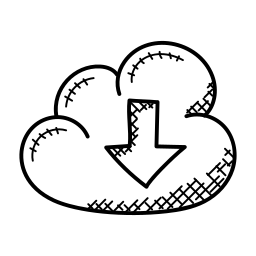
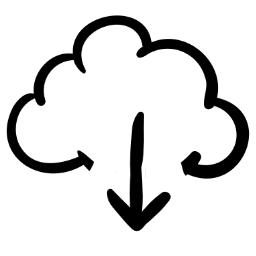
improved download image

Changed region(s): [[0.0, 0.0312, 1.0, 0.9062], [0.125, 0.7188, 0.1562, 0.75]]

diff --git a/ImagoApp/ImagoApp/Views/StartPage.xaml b/ImagoApp/ImagoApp/Views/StartPage.xaml
@@ -89,12 +89,20 @@
                         <Label FontSize="{DynamicResource FontSizeHeader}"
                                Text="{Binding FontScale}"
                                VerticalOptions="Center" />
-                        <Button Margin="5" Padding="10,-1,10,5"
-                                Command="{Binding IncreaseFontSizeCommand}"
-                                FontSize="26" Text="+" VerticalOptions="Center" />
-                        <Button Margin="5" Padding="15,-1,15,5"
-                                Command="{Binding DecreaseFontSizeCommand}"
-                                FontSize="26" Text="-" VerticalOptions="Center" />
+
+                        <customControls:ImageButtonView  VerticalOptions="Center" Margin="5,0,0,0"
+                                                         ImageSource="Images/plus.png"
+                                                         ImageMargin="8,10,6,6"
+                                                         TextHidden="True" 
+                                                         ImageSize="33" 
+                                                         Command="{Binding IncreaseFontSizeCommand}"/>
+
+                        <customControls:ImageButtonView  VerticalOptions="Center"
+                                                         ImageSource="Images/minus.png"
+                                                         ImageMargin="8,10,6,6"
+                                                         TextHidden="True" 
+                                                         ImageSize="33" 
+                                                         Command="{Binding DecreaseFontSizeCommand}"/>
                     </StackLayout>
                 </StackLayout>
             </Frame>
@@ -109,41 +117,41 @@
 
                     <StackLayout Grid.Column="0">
                         <Label FontAttributes="Bold"
-           FontSize="{DynamicResource FontSizeTitle}"
-           Text="Wiki Datenbank" VerticalOptions="Center" />
+                               FontSize="{DynamicResource FontSizeTitle}"
+                               Text="Wiki Datenbank" VerticalOptions="Center" />
 
                         <StackLayout Orientation="Horizontal">
                             <Label Margin="20,0,0,0"
-                               FontSize="{DynamicResource FontSizeHeader}"
-                               Text="Rüstungen: " />
+                                   FontSize="{DynamicResource FontSizeHeader}"
+                                   Text="Rüstungen: " />
                             <Label FontSize="{DynamicResource FontSizeHeader}" Text="{Binding DatabaseInfoViewModel.ArmorTemplateCount}" />
                         </StackLayout>
 
                         <StackLayout Orientation="Horizontal">
                             <Label Margin="20,0,0,0"
-                               FontSize="{DynamicResource FontSizeHeader}"
-                               Text="Waffen: " />
+                                   FontSize="{DynamicResource FontSizeHeader}"
+                                   Text="Waffen: " />
                             <Label FontSize="{DynamicResource FontSizeHeader}" Text="{Binding DatabaseInfoViewModel.WeaponTemplateCount}" />
                         </StackLayout>
 
                         <StackLayout Orientation="Horizontal">
                             <Label Margin="20,0,0,0"
-                               FontSize="{DynamicResource FontSizeHeader}"
-                               Text="Künste: " />
+                                   FontSize="{DynamicResource FontSizeHeader}"
+                                   Text="Künste: " />
                             <Label FontSize="{DynamicResource FontSizeHeader}" Text="{Binding DatabaseInfoViewModel.TalentTemplateCount}" />
                         </StackLayout>
 
                         <StackLayout Orientation="Horizontal">
                             <Label Margin="20,0,0,0"
-                               FontSize="{DynamicResource FontSizeHeader}"
-                               Text="Webkünste: " />
+                                   FontSize="{DynamicResource FontSizeHeader}"
+                                   Text="Webkünste: " />
                             <Label FontSize="{DynamicResource FontSizeHeader}" Text="{Binding DatabaseInfoViewModel.WeaveTalentTemplateCount}" />
                         </StackLayout>
 
                         <StackLayout Orientation="Horizontal">
                             <Label Margin="20,0,0,0"
-                               FontSize="{DynamicResource FontSizeHeader}"
-                               Text="Meisterschaften: " />
+                                   FontSize="{DynamicResource FontSizeHeader}"
+                                   Text="Meisterschaften: " />
                             <Label FontSize="{DynamicResource FontSizeHeader}" Text="{Binding DatabaseInfoViewModel.MasteryTemplateCount}" />
                         </StackLayout>
 
@@ -158,20 +166,20 @@
                             </Grid.ColumnDefinitions>
 
                             <Label Grid.Column="1" Margin="25,0"
-                               FontSize="{DynamicResource FontSizeTitle}"
-                               HorizontalOptions="EndAndExpand"
-                               Text="{Binding DatabaseInfoViewModel.WikiDatabaseInfo.Length, Converter={StaticResource FileInfoLenghtToSmartFileSizeConverter}}"
-                               VerticalOptions="Center" />
+                                   FontSize="{DynamicResource FontSizeTitle}"
+                                   HorizontalOptions="EndAndExpand"
+                                   Text="{Binding DatabaseInfoViewModel.WikiDatabaseInfo.Length, Converter={StaticResource FileInfoLenghtToSmartFileSizeConverter}}"
+                                   VerticalOptions="Center" />
                             <Label Grid.Column="2"
-                               FontSize="{DynamicResource FontSizeTitle}"
-                               HorizontalOptions="EndAndExpand"
-                               Text="{Binding DatabaseInfoViewModel.WikiDatabaseInfo.LastWriteTime, StringFormat='{0:dd.MM.yyyy HH:mm}'}"
-                               VerticalOptions="Center" />
+                                   FontSize="{DynamicResource FontSizeTitle}"
+                                   HorizontalOptions="EndAndExpand"
+                                   Text="{Binding DatabaseInfoViewModel.WikiDatabaseInfo.LastWriteTime, StringFormat='{0:dd.MM.yyyy HH:mm}'}"
+                                   VerticalOptions="Center" />
                         </Grid>
 
                         <customControls:ImageButtonView Margin="15,5"
                                                         Command="{Binding ParseWikiCommand, Source={RelativeSource AncestorType={x:Type viewModels:StartPageViewModel}}}"
-                                                        ImageSize="45" ImageMargin="4,1,-4,1"
+                                                        ImageSize="37" ImageMargin="11,9,3,7"
                                                         VerticalOptions="Center"
                                                         ImageSource="Images/download.png" 
                                                         HorizontalOptions="EndAndExpand"
@@ -249,7 +257,7 @@
                                                              TextHidden="True" 
                                                              ImageSize="33" 
                                                              Command="{Binding CreateNewCharacterCommand}"
-                            ></customControls:ImageButtonView>
+                                                             ></customControls:ImageButtonView>
 
                             <customControls:ImageButtonView TextHidden="True" ImageSize="28"  ImageMargin="10,8,8,8"
                                                             ImageSource="Images/reload.png"
@@ -279,8 +287,8 @@
 
                     <!--  char list  -->
                     <ListView Grid.Row="1" SelectedItem="{Binding SelectedCharacter, Mode=TwoWay}"
-                                    ItemsSource="{Binding Characters}"
-                                    SelectionMode="Single" HasUnevenRows="True">
+                              ItemsSource="{Binding Characters}"
+                              SelectionMode="Single" HasUnevenRows="True">
                         <ListView.ItemTemplate>
                             <DataTemplate x:DataType="shared:CharacterPreview">
                                 <ViewCell>
@@ -291,40 +299,40 @@
 
                                         <StackLayout Orientation="Horizontal">
                                             <Label FontSize="{DynamicResource FontSizeTitle}"
-                                               Text="{Binding Name}"
-                                               VerticalOptions="Center" />
+                                                   Text="{Binding Name}"
+                                                   VerticalOptions="Center" />
                                             <StackLayout HorizontalOptions="EndAndExpand" Orientation="Horizontal" VerticalOptions="Center">
                                                 <Label Margin="20,0"
-                                                   FontSize="{DynamicResource FontSizeTitle}"
-                                                   Text="{Binding FileSize, Converter={StaticResource FileInfoLenghtToSmartFileSizeConverter}}" />
+                                                       FontSize="{DynamicResource FontSizeTitle}"
+                                                       Text="{Binding FileSize, Converter={StaticResource FileInfoLenghtToSmartFileSizeConverter}}" />
                                                 <Label FontSize="{DynamicResource FontSizeTitle}" Text="{Binding LastEdit, StringFormat='{0:dd.MM.yyyy HH:mm}'}" />
                                             </StackLayout>
 
                                         </StackLayout>
                                         <StackLayout Orientation="Horizontal">
                                             <Label FontSize="{DynamicResource FontSizeBigContent}"
-                                               Text="{Binding Version}"
-                                               TextColor="{DynamicResource SecondaryFirstDarkColor}"
-                                               VerticalOptions="Center" />
+                                                   Text="{Binding Version}"
+                                                   TextColor="{DynamicResource SecondaryFirstDarkColor}"
+                                                   VerticalOptions="Center" />
 
                                             <StackLayout IsVisible="{Binding LastBackup, Converter={StaticResource ObjectNotNullToBoolConverter}}" Orientation="Horizontal">
 
                                                 <Label Margin="20,0,0,0"
-                                                   FontSize="{DynamicResource FontSizeBigContent}"
-                                                   Text="Letztes Backup:"
-                                                   TextColor="{DynamicResource SecondarySecondDarkestColor}"
-                                                   VerticalOptions="Center" />
+                                                       FontSize="{DynamicResource FontSizeBigContent}"
+                                                       Text="Letztes Backup:"
+                                                       TextColor="{DynamicResource SecondarySecondDarkestColor}"
+                                                       VerticalOptions="Center" />
                                                 <Label FontSize="{DynamicResource FontSizeBigContent}"
-                                                   Text="{Binding LastBackup, TargetNullValue=''}"
-                                                   TextColor="{DynamicResource SecondarySecondDarkestColor}"
-                                                   VerticalOptions="Center" />
+                                                       Text="{Binding LastBackup, TargetNullValue=''}"
+                                                       TextColor="{DynamicResource SecondarySecondDarkestColor}"
+                                                       VerticalOptions="Center" />
                                             </StackLayout>
 
                                             <Label FontSize="{DynamicResource FontSizeBigContent}"
-                                               HorizontalOptions="EndAndExpand"
-                                               Text="{Binding Guid}"
-                                               TextColor="{DynamicResource SecondaryFirstDarkColor}"
-                                               VerticalOptions="Center" />
+                                                   HorizontalOptions="EndAndExpand"
+                                                   Text="{Binding Guid}"
+                                                   TextColor="{DynamicResource SecondaryFirstDarkColor}"
+                                                   VerticalOptions="Center" />
 
                                         </StackLayout>
                                     </StackLayout>
